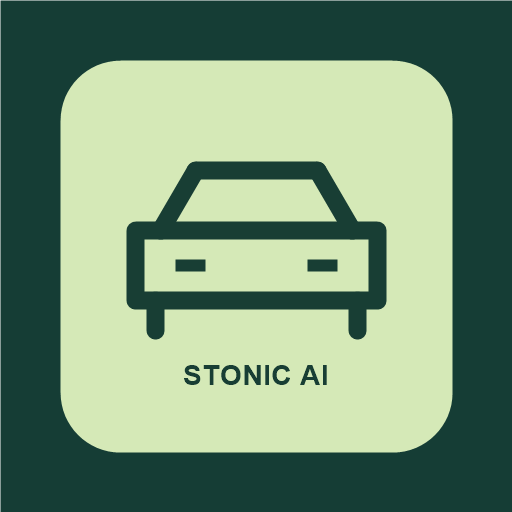
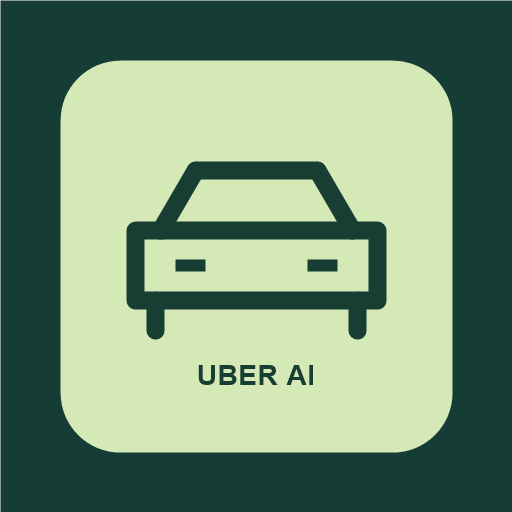
feat: rebrand to Uber Driver AI and start clean without demo data

Changed region(s): [[0.3438, 0.6875, 0.6562, 0.75]]

diff --git a/src/App.tsx b/src/App.tsx
@@ -1,6 +1,6 @@
 import { useRef, useState } from 'react';
 import type { FormEvent, ReactNode } from 'react';
-import { dateLabel, demoData, emptyData, filterData, money, number, parseBackup, parseData, STORAGE_KEY, summarize, today, validFuel, validShift } from './domain.ts';
+import { dateLabel, demoData, emptyData, filterData, money, number, parseBackup, parseData, STORAGE_KEY, LEGACY_STORAGE_KEY, summarize, today, validFuel, validShift } from './domain.ts';
 import type { Backup, Data, Fuel, Shift } from './domain.ts';
 import { parseUberCsv } from './uberCsv.ts';
 import type { UberImportResult } from './uberCsv.ts';
@@ -9,7 +9,7 @@ type Tab = 'Resumen' | 'Jornadas' | 'Combustible' | 'Mis datos';
 function load() {
   let raw: string | null = null;
   try {
-    raw = localStorage.getItem(STORAGE_KEY);
+    raw = localStorage.getItem(STORAGE_KEY) || localStorage.getItem(LEGACY_STORAGE_KEY);
     return { data: raw ? parseData(JSON.parse(raw)) : emptyData(), raw, error: '' };
   } catch {
     return { data: emptyData(), raw, error: 'No se pudieron leer tus datos. No los sobrescribiremos. Descarga el archivo de recuperación en Mis datos o restaura un respaldo válido.' };
@@ -41,7 +41,7 @@ export default function App() {
   const rawRef = useRef(initial.raw);
   const [loadError, setLoadError] = useState(initial.error);
   const [demo, setDemo] = useState(demoData);
-  const [mode, setMode] = useState<'demo' | 'real'>(initial.raw ? 'real' : 'demo');
+  const [mode, setMode] = useState<'demo' | 'real'>('real');
   const [tab, setTab] = useState<Tab>('Resumen');
   const [message, setMessage] = useState('');
   const [error, setError] = useState('');
@@ -95,8 +95,8 @@ export default function App() {
   }
   function edit(row: Shift | Fuel) { setEditing(row); setFormKey(k => k + 1); setMessage(''); setError(''); window.scrollTo({ top: 0, behavior: 'smooth' }); }
   function exportBackup() {
-    const backup: Backup = { app: 'stonic-driver-ai', mode, exportedAt: new Date().toISOString(), data };
-    download(JSON.stringify(backup, null, 2), `stonic-respaldo-${mode}-${today()}.json`);
+    const backup: Backup = { app: 'uber-driver-ai', mode, exportedAt: new Date().toISOString(), data };
+    download(JSON.stringify(backup, null, 2), `uber-respaldo-${mode}-${today()}.json`);
     setMessage('Respaldo descargado. Guárdalo en un lugar privado.');
   }
   async function restore(file: File | undefined) {
@@ -149,7 +149,7 @@ export default function App() {
 
   return <div className="app-shell">
     <aside className="sidebar">
-      <a className="brand" href="#" onClick={e => { e.preventDefault(); navigate('Resumen'); }}><span className="brand-icon"><Icon kind="car"/></span><span>stonic<span className="brand-sub">DRIVER AI</span></span></a>
+      <a className="brand" href="#" onClick={e => { e.preventDefault(); navigate('Resumen'); }}><span className="brand-icon"><Icon kind="car"/></span><span>uber<span className="brand-sub">DRIVER AI</span></span></a>
       <p className="nav-label">TU ESPACIO DE CONDUCCIÓN</p>
       <nav aria-label="Navegación principal">{tabs.map((name, i) => <button key={name} className={tab === name ? 'nav-item active' : 'nav-item'} aria-current={tab === name ? 'page' : undefined} onClick={() => navigate(name)}><Icon kind={name}/>{name}<span className="nav-index">0{i + 1}</span></button>)}</nav>
       <div className="sidebar-bottom"><div className="vehicle"><Icon kind="car"/><div><strong>Kia Stonic</strong><small>Guayaquil, Ecuador</small></div></div><div className="local-status"><span/> Proyecto local · v0.1</div></div>
@@ -157,7 +157,7 @@ export default function App() {
     <main>
       <header className="topbar"><span>MI BITÁCORA <span className="slash">/</span> <strong>{tab}</strong></span><span className="location">Guayaquil <span>·</span> USD</span></header>
       <div className="content">
-        <div className="page-heading"><div><p className="eyebrow">CADA JORNADA CUENTA</p><h1>{tab === 'Resumen' ? 'Tu camino, en números.' : tab === 'Jornadas' ? 'Registra tu jornada.' : tab === 'Combustible' ? 'Cada carga, bajo control.' : 'Tus datos, contigo.'}</h1><p className="subtitle">{tab === 'Resumen' ? 'Una mirada clara a tu trabajo y a tu Stonic.' : tab === 'Jornadas' ? 'Anota cómo te fue al terminar de conducir.' : tab === 'Combustible' ? 'Lleva un historial de tus compras de combustible.' : 'Guarda una copia y conoce los próximos pasos.'}</p></div><span className="version-tag">PRIMERA VERSIÓN</span></div>
+        <div className="page-heading"><div><p className="eyebrow">CADA JORNADA CUENTA</p><h1>{tab === 'Resumen' ? 'Tu camino, en números.' : tab === 'Jornadas' ? 'Registra tu jornada.' : tab === 'Combustible' ? 'Cada carga, bajo control.' : 'Tus datos, contigo.'}</h1><p className="subtitle">{tab === 'Resumen' ? 'Una mirada clara a tu trabajo y a tu vehículo.' : tab === 'Jornadas' ? 'Anota cómo te fue al terminar de conducir.' : tab === 'Combustible' ? 'Lleva un historial de tus compras de combustible.' : 'Guarda una copia y conoce los próximos pasos.'}</p></div><span className="version-tag">PRIMERA VERSIÓN</span></div>
         <section className={mode === 'demo' ? 'mode-banner' : 'mode-banner real'} aria-label="Modo de datos"><div><strong>{mode === 'demo' ? 'Estás explorando datos de ejemplo' : 'Estás usando tus registros personales'}</strong><p>{mode === 'demo' ? 'Practica con cifras ficticias. Los cambios de práctica se reinician al recargar.' : 'Guardados en este navegador. Descarga respaldos para conservar una copia.'}</p></div><button className="outline" onClick={() => { setMode(mode === 'demo' ? 'real' : 'demo'); setEditing(null); setFormKey(k => k + 1); setMessage(''); setError(''); setFrom(''); setTo(''); }}>{mode === 'demo' ? 'Usar mis registros' : 'Ver demostración'} <span aria-hidden="true">↗</span></button></section>
         {loadError && mode === 'real' && <p className="alert error" role="alert">{loadError}</p>}
         {message && <p className="alert" role="status">{message}</p>}{error && <p className="alert error" role="alert">{error}</p>}
@@ -226,7 +226,7 @@ export default function App() {
             </div>
           </div>
         </div>}
-        <footer><span>STONIC DRIVER AI</span><span>Hecho para tu día a día en Guayaquil.</span><span>Local · Personal · A tu ritmo</span></footer>
+        <footer><span>UBER DRIVER AI</span><span>Hecho para tu día a día en Guayaquil.</span><span>Local · Personal · Soberano</span></footer>
       </div>
     </main>
   </div>;

diff --git a/src/domain.ts b/src/domain.ts
@@ -6,8 +6,9 @@ export type Fuel = {
   id: string; date: string; gallons: number; cost: number; odometer: number; notes: string;
 };
 export type Data = { version: 1; shifts: Shift[]; fuel: Fuel[] };
-export type Backup = { app: 'stonic-driver-ai'; mode: 'demo' | 'real'; exportedAt: string; data: Data };
-export const STORAGE_KEY = 'stonic-driver-ai:real:v1';
+export type Backup = { app: 'uber-driver-ai' | 'stonic-driver-ai'; mode: 'demo' | 'real'; exportedAt: string; data: Data };
+export const STORAGE_KEY = 'uber-driver-ai:real:v1';
+export const LEGACY_STORAGE_KEY = 'stonic-driver-ai:real:v1';
 export const emptyData = (): Data => ({ version: 1, shifts: [], fuel: [] });
 export const money = (n: number) => new Intl.NumberFormat('es-EC', { style: 'currency', currency: 'USD' }).format(n);
 export const number = (n: number) => new Intl.NumberFormat('es-EC', { maximumFractionDigits: 3 }).format(n);
@@ -32,14 +33,14 @@ export function validFuel(value: unknown): value is Fuel {
   return record(value) && base(value) && numeric(value.gallons, 100, 0.001) && numeric(value.cost, 10000, 0.01) && numeric(value.odometer, 2000000);
 }
 export function parseData(value: unknown): Data {
-  if (!record(value) || value.version !== 1 || !Array.isArray(value.shifts) || !Array.isArray(value.fuel) || value.shifts.length > 20000 || value.fuel.length > 20000 || !value.shifts.every(validShift) || !value.fuel.every(validFuel)) throw new Error('El archivo no contiene registros válidos de Stonic Driver AI.');
+  if (!record(value) || value.version !== 1 || !Array.isArray(value.shifts) || !Array.isArray(value.fuel) || value.shifts.length > 20000 || value.fuel.length > 20000 || !value.shifts.every(validShift) || !value.fuel.every(validFuel)) throw new Error('El archivo no contiene registros válidos de Uber Driver AI.');
   const ids = [...value.shifts, ...value.fuel].map(r => r.id);
   if (new Set(ids).size !== ids.length) throw new Error('Hay registros duplicados en el respaldo.');
   return { version: 1, shifts: value.shifts.map(s => ({ id: s.id, date: s.date, hours: s.hours, km: s.km, trips: s.trips, income: s.income, otherCosts: s.otherCosts, notes: s.notes })), fuel: value.fuel.map(f => ({ id: f.id, date: f.date, gallons: f.gallons, cost: f.cost, odometer: f.odometer, notes: f.notes })) };
 }
 export function parseBackup(text: string): Data {
   const value: unknown = JSON.parse(text);
-  if (!record(value) || value.app !== 'stonic-driver-ai' || value.mode !== 'real') throw new Error('Selecciona un respaldo de tus datos reales. Los ejemplos no se importan.');
+  if (!record(value) || (value.app !== 'uber-driver-ai' && value.app !== 'stonic-driver-ai') || value.mode !== 'real') throw new Error('Selecciona un respaldo de tus datos reales. Los ejemplos no se importan.');
   return parseData(value.data);
 }
 const cents = (n: number) => Math.round(n * 100);

diff --git a/index.html b/index.html
@@ -4,8 +4,8 @@
     <meta charset="UTF-8" />
     <meta name="viewport" content="width=device-width, initial-scale=1.0" />
     <meta name="theme-color" content="#163f39" />
-    <meta name="description" content="Tu bitácora personal de jornadas y combustible en Guayaquil." />
-    <title>Stonic Driver AI · Tu bitácora</title>
+    <meta name="description" content="Tu bitácora personal de jornadas y combustible para Uber en Guayaquil." />
+    <title>Uber Driver AI · Tu bitácora</title>
   </head>
   <body><div id="root"></div><script type="module" src="/src/main.tsx"></script></body>
 </html>
